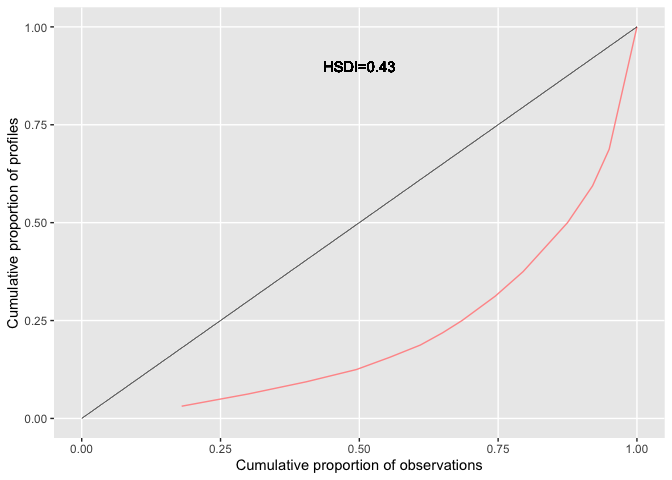
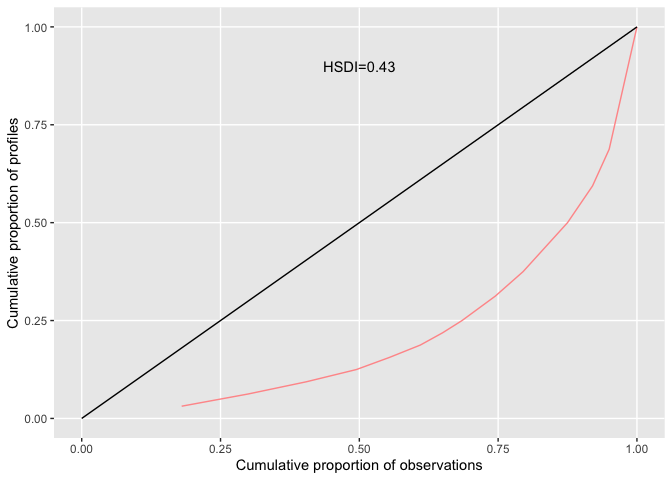
Typo corrected. ggplot code tweaked.

diff --git a/README.md b/README.md
@@ -490,7 +490,7 @@ ggplot(res, aes(Post, Pre, color=PCHC)) +
   coord_cartesian(xlim = c(1, 243), ylim = c(1, 243)) +
   scale_x_continuous(breaks = c(1,243)) +
   scale_y_continuous(breaks = c(1,243)) +
-  geom_segment(x=1,y=1,xend=243,yend=243, colour="black", size=0.01) +
+  annotate("segment", x=1,y=1,xend=243,yend=243, colour="black") +
   theme(panel.border = element_blank(), panel.grid.minor = element_blank()) +
   xlab("Post-treatment") +
   ylab("Pre-treatment")
@@ -557,8 +557,6 @@ value between 0 and 1 where a value of 0 represents total inequality and
 #load example data
 data <- read_excel(system.file("extdata", "eq5d3l_example.xlsx", package="eq5d"))
 
-#Calculate HSDIdata <- redata <- read_excel(system.file("extdata", "eq5d3l_example.xlsx", package="eq5d"))
-
 #Calculate HSDI
 hsdi <- hsdi(data, version="3L")
 
@@ -571,8 +569,8 @@ library(ggplot2)
 
 ggplot(cf, aes(CumulativeProp, CumulativeState)) + 
   geom_line(color="#FF9999") + 
-  geom_segment(x=0,y=0,xend=1,yend=1, colour="black", size=0.01) +  
-  geom_text(x=0.5, y=0.9, label=paste0("HSDI=", hsdi)) +
+  annotate("segment", x=0, y=0, xend=1,yend=1, colour="black") +  
+  annotate("text", x=0.5, y=0.9, label=paste0("HSDI=", hsdi)) +
   theme(panel.border = element_blank(), panel.grid.minor = element_blank()) +
   coord_cartesian(xlim = c(0, 1), ylim = c(0, 1)) +
   xlab("Cumulative proportion of observations") +
@@ -601,28 +599,28 @@ dat <- data.frame(
 
 eq5dds(dat, version="3L")
 #>     MO   SC   UA   PD   AD
-#> 1 41.7 16.7 33.3 41.7 25.0
-#> 2 41.7 33.3 33.3 25.0 66.7
-#> 3 16.7 50.0 33.3 33.3  8.3
+#> 1 25.0 25.0 50.0 33.3 33.3
+#> 2 41.7 16.7 33.3 16.7 16.7
+#> 3 33.3 58.3 16.7 50.0 50.0
 
 eq5dds(dat, version="3L", counts=TRUE)
 #>   MO SC UA PD AD
-#> 1  5  2  4  5  3
-#> 2  5  4  4  3  8
-#> 3  2  6  4  4  1
+#> 1  3  3  6  4  4
+#> 2  5  2  4  2  2
+#> 3  4  7  2  6  6
 
 eq5dds(dat, version="3L", by="Sex")
 #> data[, by]: Female
 #>     MO   SC   UA   PD   AD
-#> 1 50.0 16.7 16.7 66.7 16.7
-#> 2 16.7 33.3 66.7  0.0 66.7
-#> 3 33.3 50.0 16.7 33.3 16.7
+#> 1 16.7 50.0 50.0 16.7 50.0
+#> 2 33.3 16.7 33.3 33.3 16.7
+#> 3 50.0 33.3 16.7 50.0 33.3
 #> ------------------------------------------------------------ 
 #> data[, by]: Male
-#>     MO   SC UA   PD   AD
-#> 1 33.3 16.7 50 16.7 33.3
-#> 2 66.7 33.3  0 50.0 66.7
-#> 3  0.0 50.0 50 33.3  0.0
+#>     MO   SC   UA PD   AD
+#> 1 33.3  0.0 50.0 50 16.7
+#> 2 50.0 16.7 33.3  0 16.7
+#> 3 16.7 83.3 16.7 50 66.7
 ```
 
 ## Helper functions
